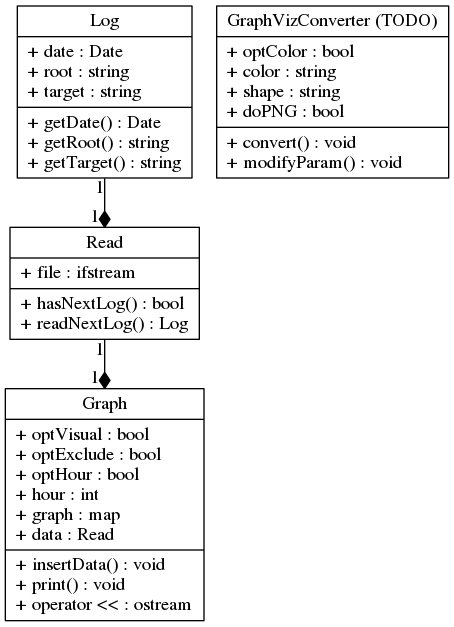
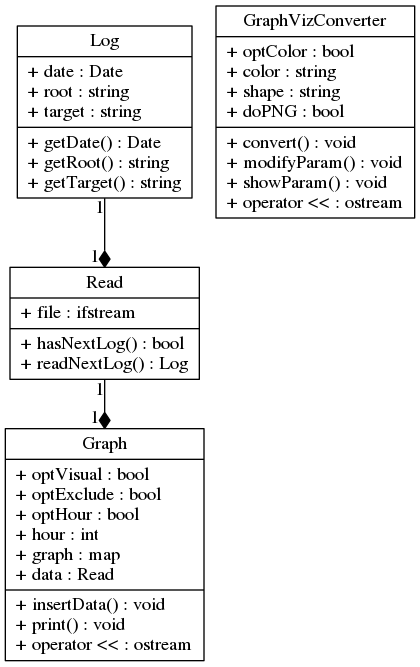
Ajout de l’operateur <<

Changed region(s): [[0.0, 0.0, 1.0, 1.0]]

diff --git a/src/GraphVizConverter.cpp b/src/GraphVizConverter.cpp
@@ -23,11 +23,14 @@ using namespace std;
 //----------------------------------------------------------------- PUBLIC
 
 //----------------------------------------------------- Méthodes publiques
-
+void GraphVizConverter::showParameters () const
+{
+	cout << *this << endl;
+} //----- Fin de showParameters
 
 void GraphVizConverter::convert (list<string[3]> & graph,
 								 const string & nameBase,
-								 const string & path)
+								 const string & path) const
 {
 	// création ou écrasement du fichier dot
 	string toOpen = path + nameBase;
@@ -72,7 +75,7 @@ void GraphVizConverter::convert (list<string[3]> & graph,
 		cerr << "Impossible de creer le fichier,";
 		cerr << " verifiez l’existance du chemin" << endl;
 	}
-}
+} //----- Fin de convert
 
 ///------------------------------------------------- Surcharge d'op�rateurs
 GraphVizConverter & GraphVizConverter::operator =
@@ -88,6 +91,20 @@ GraphVizConverter & GraphVizConverter::operator =
 	return *this;
 } //----- Fin de operator =
 
+ostream & operator <<
+	( ostream & os, const GraphVizConverter & aGraphVizConverter )
+{
+	os << "Creation et affichage de l’image : ";
+	os << printPNG ? "oui" : "non" << endl;
+	os << "Titre : "                      << title      << endl;
+	os << "Forme des fins de fleches : "  << shapeArrow << endl;
+	os << "Forme des bases de fleches : " << shapeTail  << endl;
+	os << "Forme des boites : "           << shapeNode  << endl;
+	os << "Couleur des liens : "          << colorLink  << endl;
+	os << "Couleur des boites : "         << colorNode;
+
+
+} //----- Fin de operator <<
 
 ///-------------------------------------------- Constructeurs - destructeur
 GraphVizConverter::GraphVizConverter

diff --git a/src/GraphVizConverter.h b/src/GraphVizConverter.h
@@ -29,25 +29,30 @@ class GraphVizConverter
 
 public:
 //----------------------------------------------------- M�thodes publiques
+    void showParameters () const;
+    // Contrat :
+    // voir operator <<
 
 	void convert (list<string[3]> & graph,
 				  const string & nameBase = "graph",
-				  const string & path     = "");
+				  const string & path     = "") const;
     // Mode d'emploi :
     // lancer la conversion d’un graph après avoir vérifié les parametres
     // de conversion
     // Contrat :
-    //
+    // Récupère un graph au format (racine, cible, label)
 
 //------------------------------------------------- Surcharge d'op�rateurs
 	GraphVizConverter & operator =
-		( const GraphVizConverter & unGraphVizConverter );
+		( const GraphVizConverter & aGraphVizConverter );
 	// Contrat :
 	// utilise les constructeurs de copie de chaque attribut un à un.
 
+    friend ostream & operator <<
+        ( ostream & os, const GraphVizConverter & aGraphVizConverter );
 
 //-------------------------------------------- Constructeurs - destructeur
-	GraphVizConverter ( const GraphVizConverter & unGraphVizConverter );
+	GraphVizConverter ( const GraphVizConverter & aGraphVizConverter );
 	// Mode d'emploi (constructeur de copie) :
 	//
 	// Contrat :
